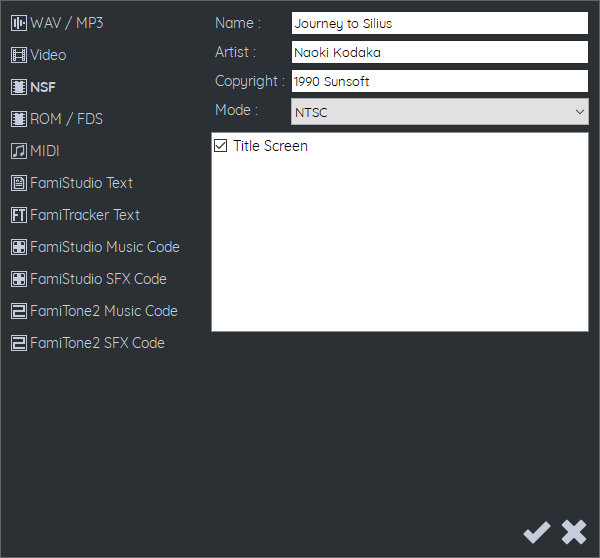
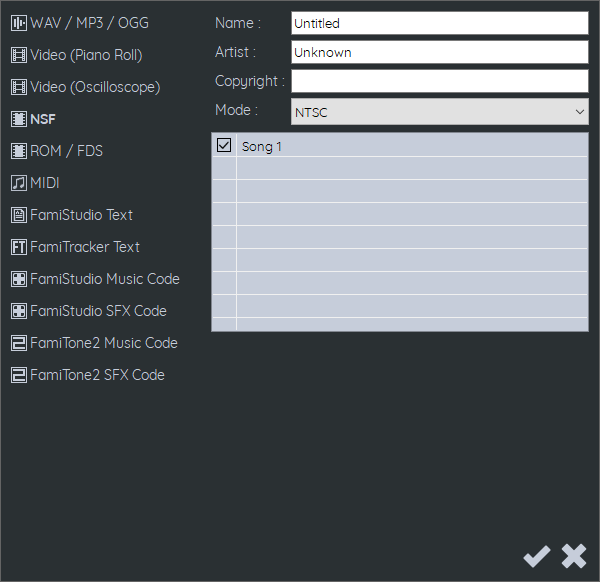
Export doc update.

diff --git a/FamiStudio/Source/UI/Common/FamiStudio.cs b/FamiStudio/Source/UI/Common/FamiStudio.cs
@@ -1,4 +1,4 @@
-#define DEVELOPMENT_VERSION
+//#define DEVELOPMENT_VERSION
 
 using System;
 using System.Collections;

diff --git a/Docs/docs/export.md b/Docs/docs/export.md
@@ -2,16 +2,20 @@
 
 The export dialog is access through the main toolbar or with CTRL+E on the keyboard. To quickly repeat a previous export (same format and output file), you can right click on the export icon in the toolbar or press CTRL+SHIFT+E.
 
-## Wave / MP3 File
+## Wave / MP3 / OGG Vorbis File
 
-Only a single song can be exported at a time. You can choose the sample rate (and bitrate in case of MP3). It is recommended to stick to 44.1KHz if you want the sound to be exactly as you hear it in FamiStudio. Lower sample rate might lack high frequencies.
+Only a single song can be exported at a time. You can choose the sample rate (and bitrate in case of MP3/OGG). It is recommended to stick to 44.1KHz if you want the sound to be exactly as you hear it in FamiStudio. Lower sample rate might lack high frequencies.
 
 The song can be exported in one of two modes:
 
 * Play N Times: Will play the song a specified number of times.
 * Duration : Will loop though the song for the specified number of seconds.
 
-You can also export each channel to individual by enabling "Separate channel file". 
+Other options:
+
+* **Separate channel files** : Will output each channel in a seperate audio file.
+* **Seperate intro file** : Will output the part before the loop point (intro) in a seperate file. 
+* **Stereo** : Will output a stereo file and will allow setting the panning % in the channel list.
 
 Note that the quality of the MP3 encoding may not going to be as good as full fledge mp3 encoder such as LAME, but should be good enough for sending quick previews to people.
 
@@ -19,20 +23,35 @@ Note that the quality of the MP3 encoding may not going to be as good as full fl
 
 Channels can optionally be muted. This can be used, for example, to create stereo mix using and external application.
 
-## Video
+## Video (Piano Roll and Oscilloscope)
 
 Video export is a great way to add a visual element to your songs when sharing them on YouTube/social media. For this to work, you will need to [manually download FFmpeg](ffmpeg.md) and extract it somewhere on your computer. 
 
+Example of the piano roll format:
 ![](images/VideoScreenshot.jpg#center)
+
+Example of the oscilloscope format:
+![](images/VideoOscScreenshot.jpg#center)
 
 ![](images/ExportVideo.png#center)
 
 Besides the audio/video quality settings, there are a few options to control the look and feel of the video:
 
-* **Piano roll zoom** : The higher the zoom, the faster notes will scroll by. 
+* **Loop count** : Number of times to repeat the looping part of the song.
+* **Stereo** : Same as WAV/MP3/OGG.
 * **Channels** : It is recommended to not export channels that do not have any notes, this will leave more space to the other channels.
 
-## Nintendo Sound Format
+Options specific to piano roll video:
+
+* **Piano roll zoom** : The higher the zoom, the faster notes will scroll by. 
+
+Options specific to oscilloscope video:
+
+* **Oscilloscope Colums** : Number of columns to split the channels into.
+* **Oscilloscope Thickness** : Thickness of the oscilloscope line, in pixels.
+* **Oscilloscope Color** : Can color the oscilloscope using the colors of the instruments or samples. Otherwise will use a neutral light grey. 
+
+## Nintendo Sound Format (NSF)
 
 Every feature supported by FamiStudio can be used in an NSF. 
 
@@ -46,7 +65,7 @@ The maximum song size is approximately 28KB minus the size of the DPCM samples u
 
 Song(s) can be exported to a NES ROM file or a Famicom Disk System disk to play if back on an emulator or on actual hardware. 
 
-For ROM export, the current iteration uses [Mapper 31](https://wiki.nesdev.com/w/index.php/INES_Mapper_031) which is supported by most emulators and the [Everdrive N8](https://krikzz.com/store/home/31-everdrive-n8-nes.html). You can then copy the ROM to an SD card and listen to it on actual hardware. Note that expansion audio is not supported with this mapper.
+For ROM export uses the MMC3 mapper which is supported by most emulators and the [Everdrive N8](https://krikzz.com/store/home/31-everdrive-n8-nes.html). You can then copy the ROM to an SD card and listen to it on actual hardware. Note that expansion audio is not supported with this mapper.
 
 ![](images/Rom.png#center)
 
@@ -169,8 +188,8 @@ Here is an example of a very short file:
 					Note Time="0" Value="C4" Instrument="Lead2" Volume="15"
 					Note Time="70" Value="D#4" Instrument="Lead2"
 					Note Time="98" Value="D4" Instrument="Lead2"
-			PatternInstance Time="0" Pattern="Intro1"
-			PatternInstance Time="1" Pattern="Melody1"
+				PatternInstance Time="0" Pattern="Intro1"
+				PatternInstance Time="1" Pattern="Melody1"
 
 
 The possible types of objects and their attributes:
@@ -204,6 +223,7 @@ Instrument | Name | Yes | Name of the instrument.
 | N163WavePreset | | (N163 instrument only) Sine, Triangle, Sawtooth, Square 50%, Square 25%, Flat or Custom.
 | N163WaveSize | | (N163 instrument only) 4 to 248, multiple of 4 (4, 8, 12, etc.).
 | N163WavePos | | (N163 instrument only) 0 to 244, multiple of 4 (4, 8, 12, etc.).
+| Vrc6SawMasterVolume | | (VRC6 instrument only) Full, Half or Quarter.
 | Vrc7Patch | | (VRC7 instrument only) 0 to 15.
 | Vrc7Reg{1 to 8} | | (VRC7 instrument only, if Vrc7Patch is 0) Values of the 8 custom patch registers.
 Envelope | Type | Yes | Volume, Arpeggio, Pitch, DutyCycle, FDSWave, FDSMod or N163Wave.
@@ -237,6 +257,7 @@ Note | Time | Yes | The frame (or note) number inside the pattern where this not
 | Arpeggio | | Optional, name of the arpeggio to use.
 | Attack | | If the note has an attack, True of False.
 | Volume | | The volume of the note, 0 to 15.
+| VolumeSlide | | If specified, the note has a volume slide and slides to the specified value. Must also have a Volume.
 | VibratoSpeed | | The Vibrato speed, 0 to 12.
 | VibratoDepth | | The Vibrato depth, 0 to 15.
 | Speed | | (FamiTracker tempo only) Updates the FamiTracker speed to a new value.
